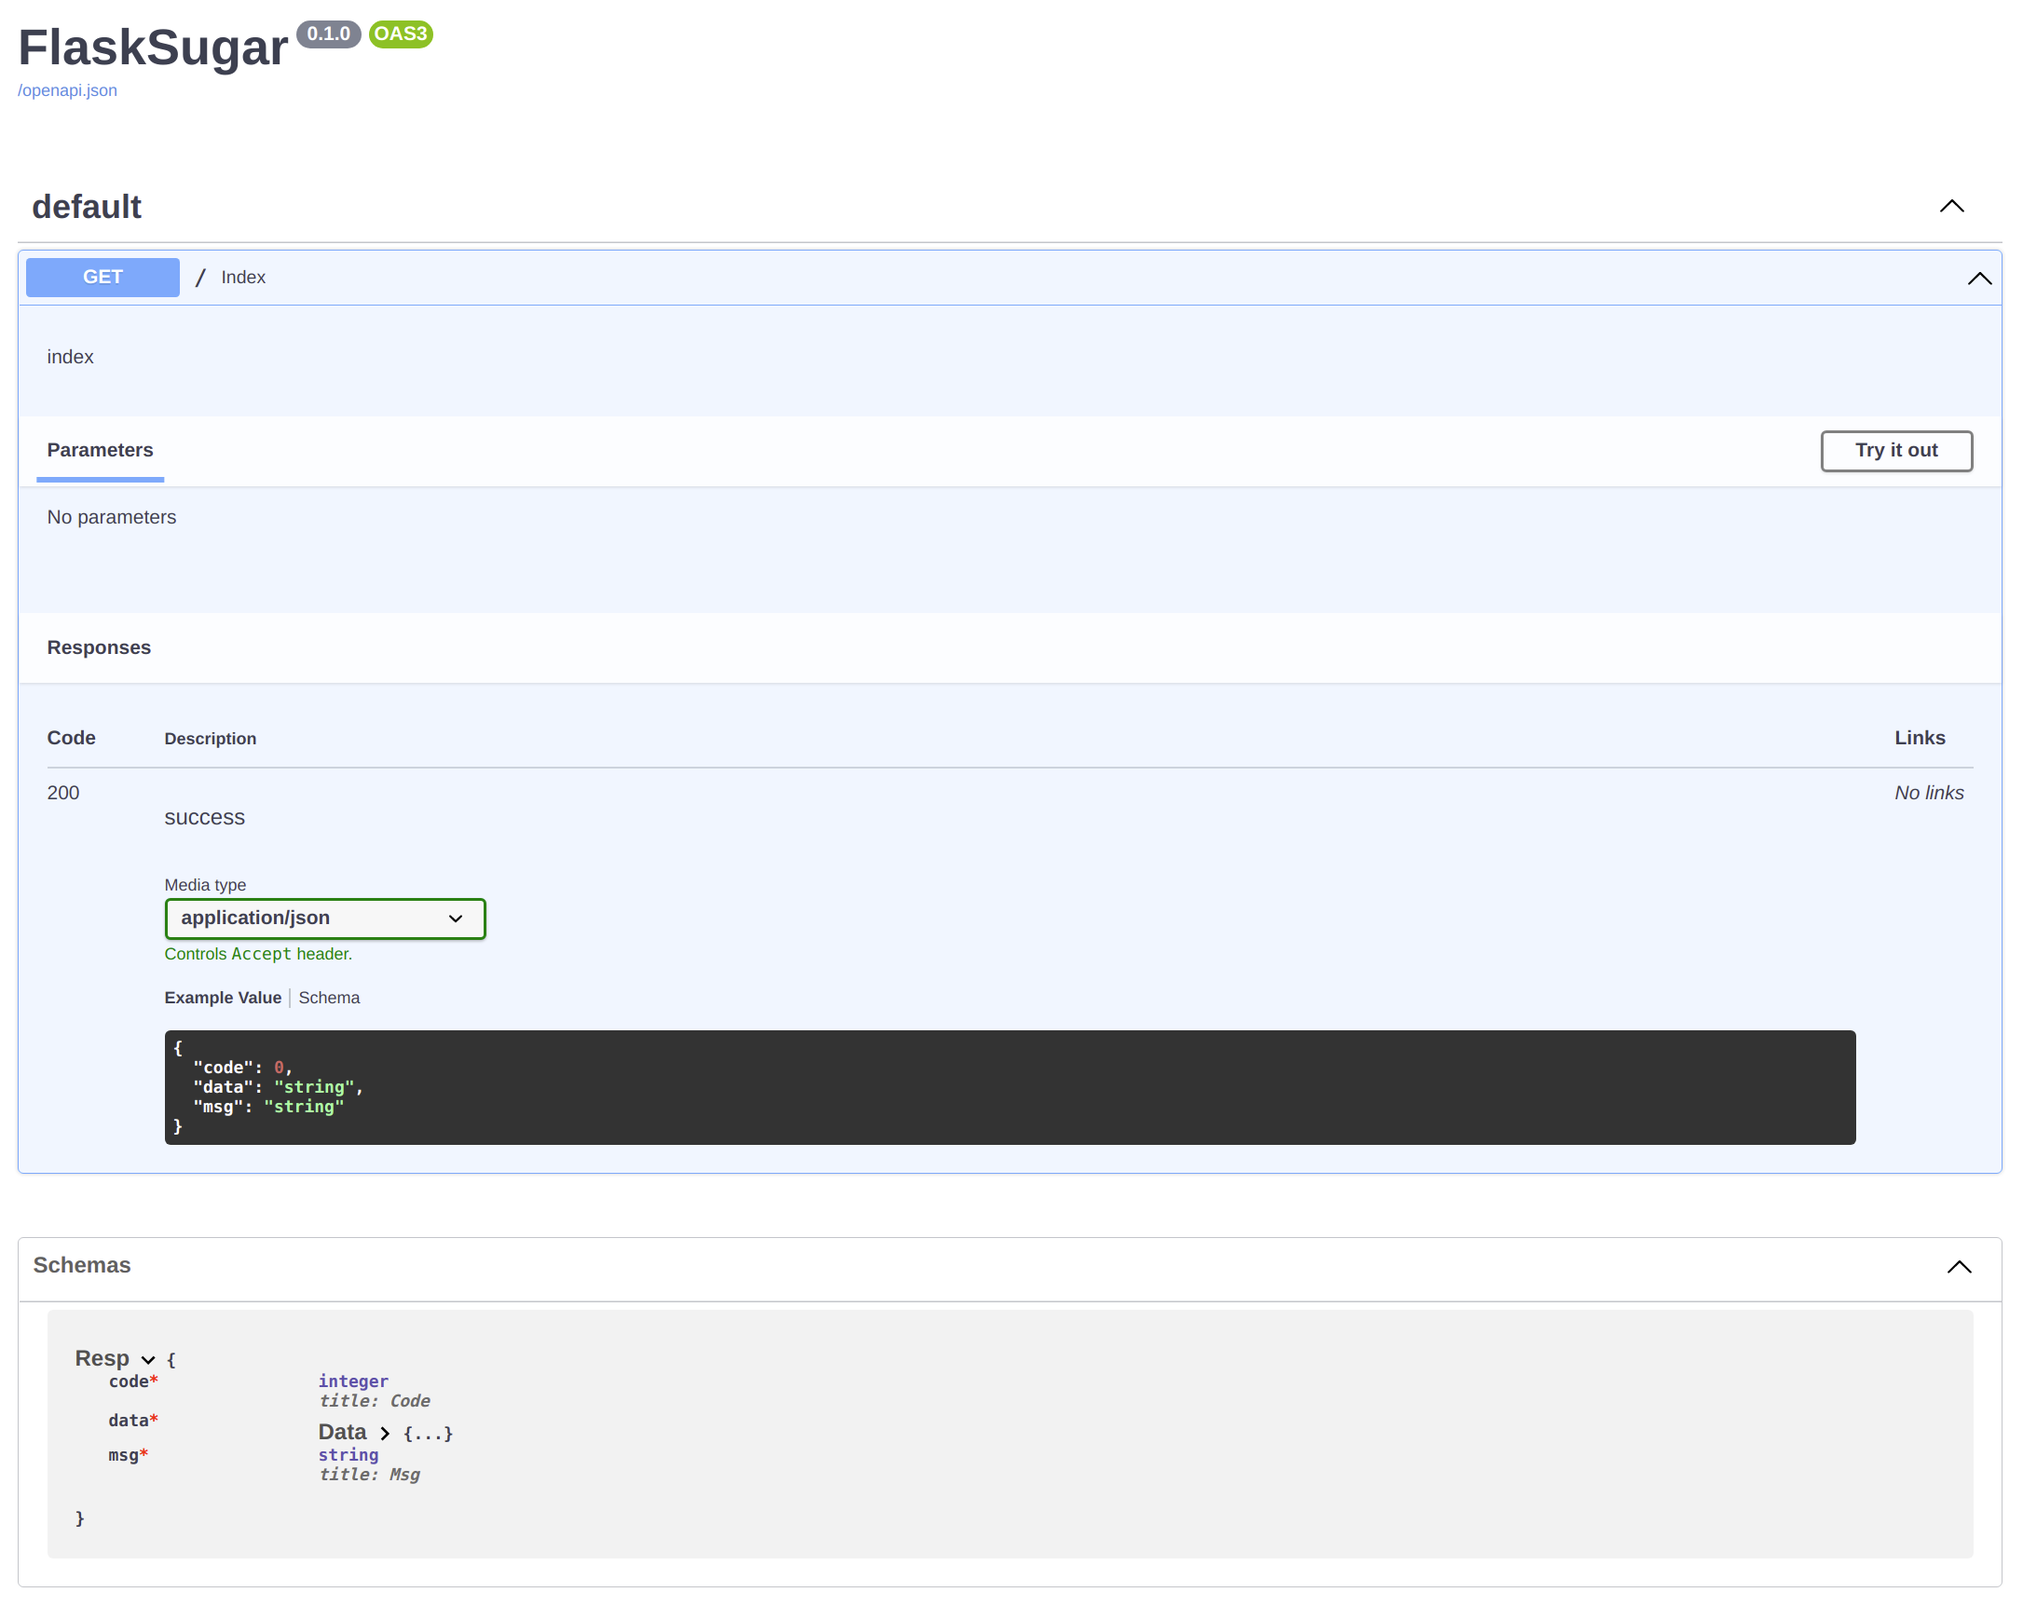
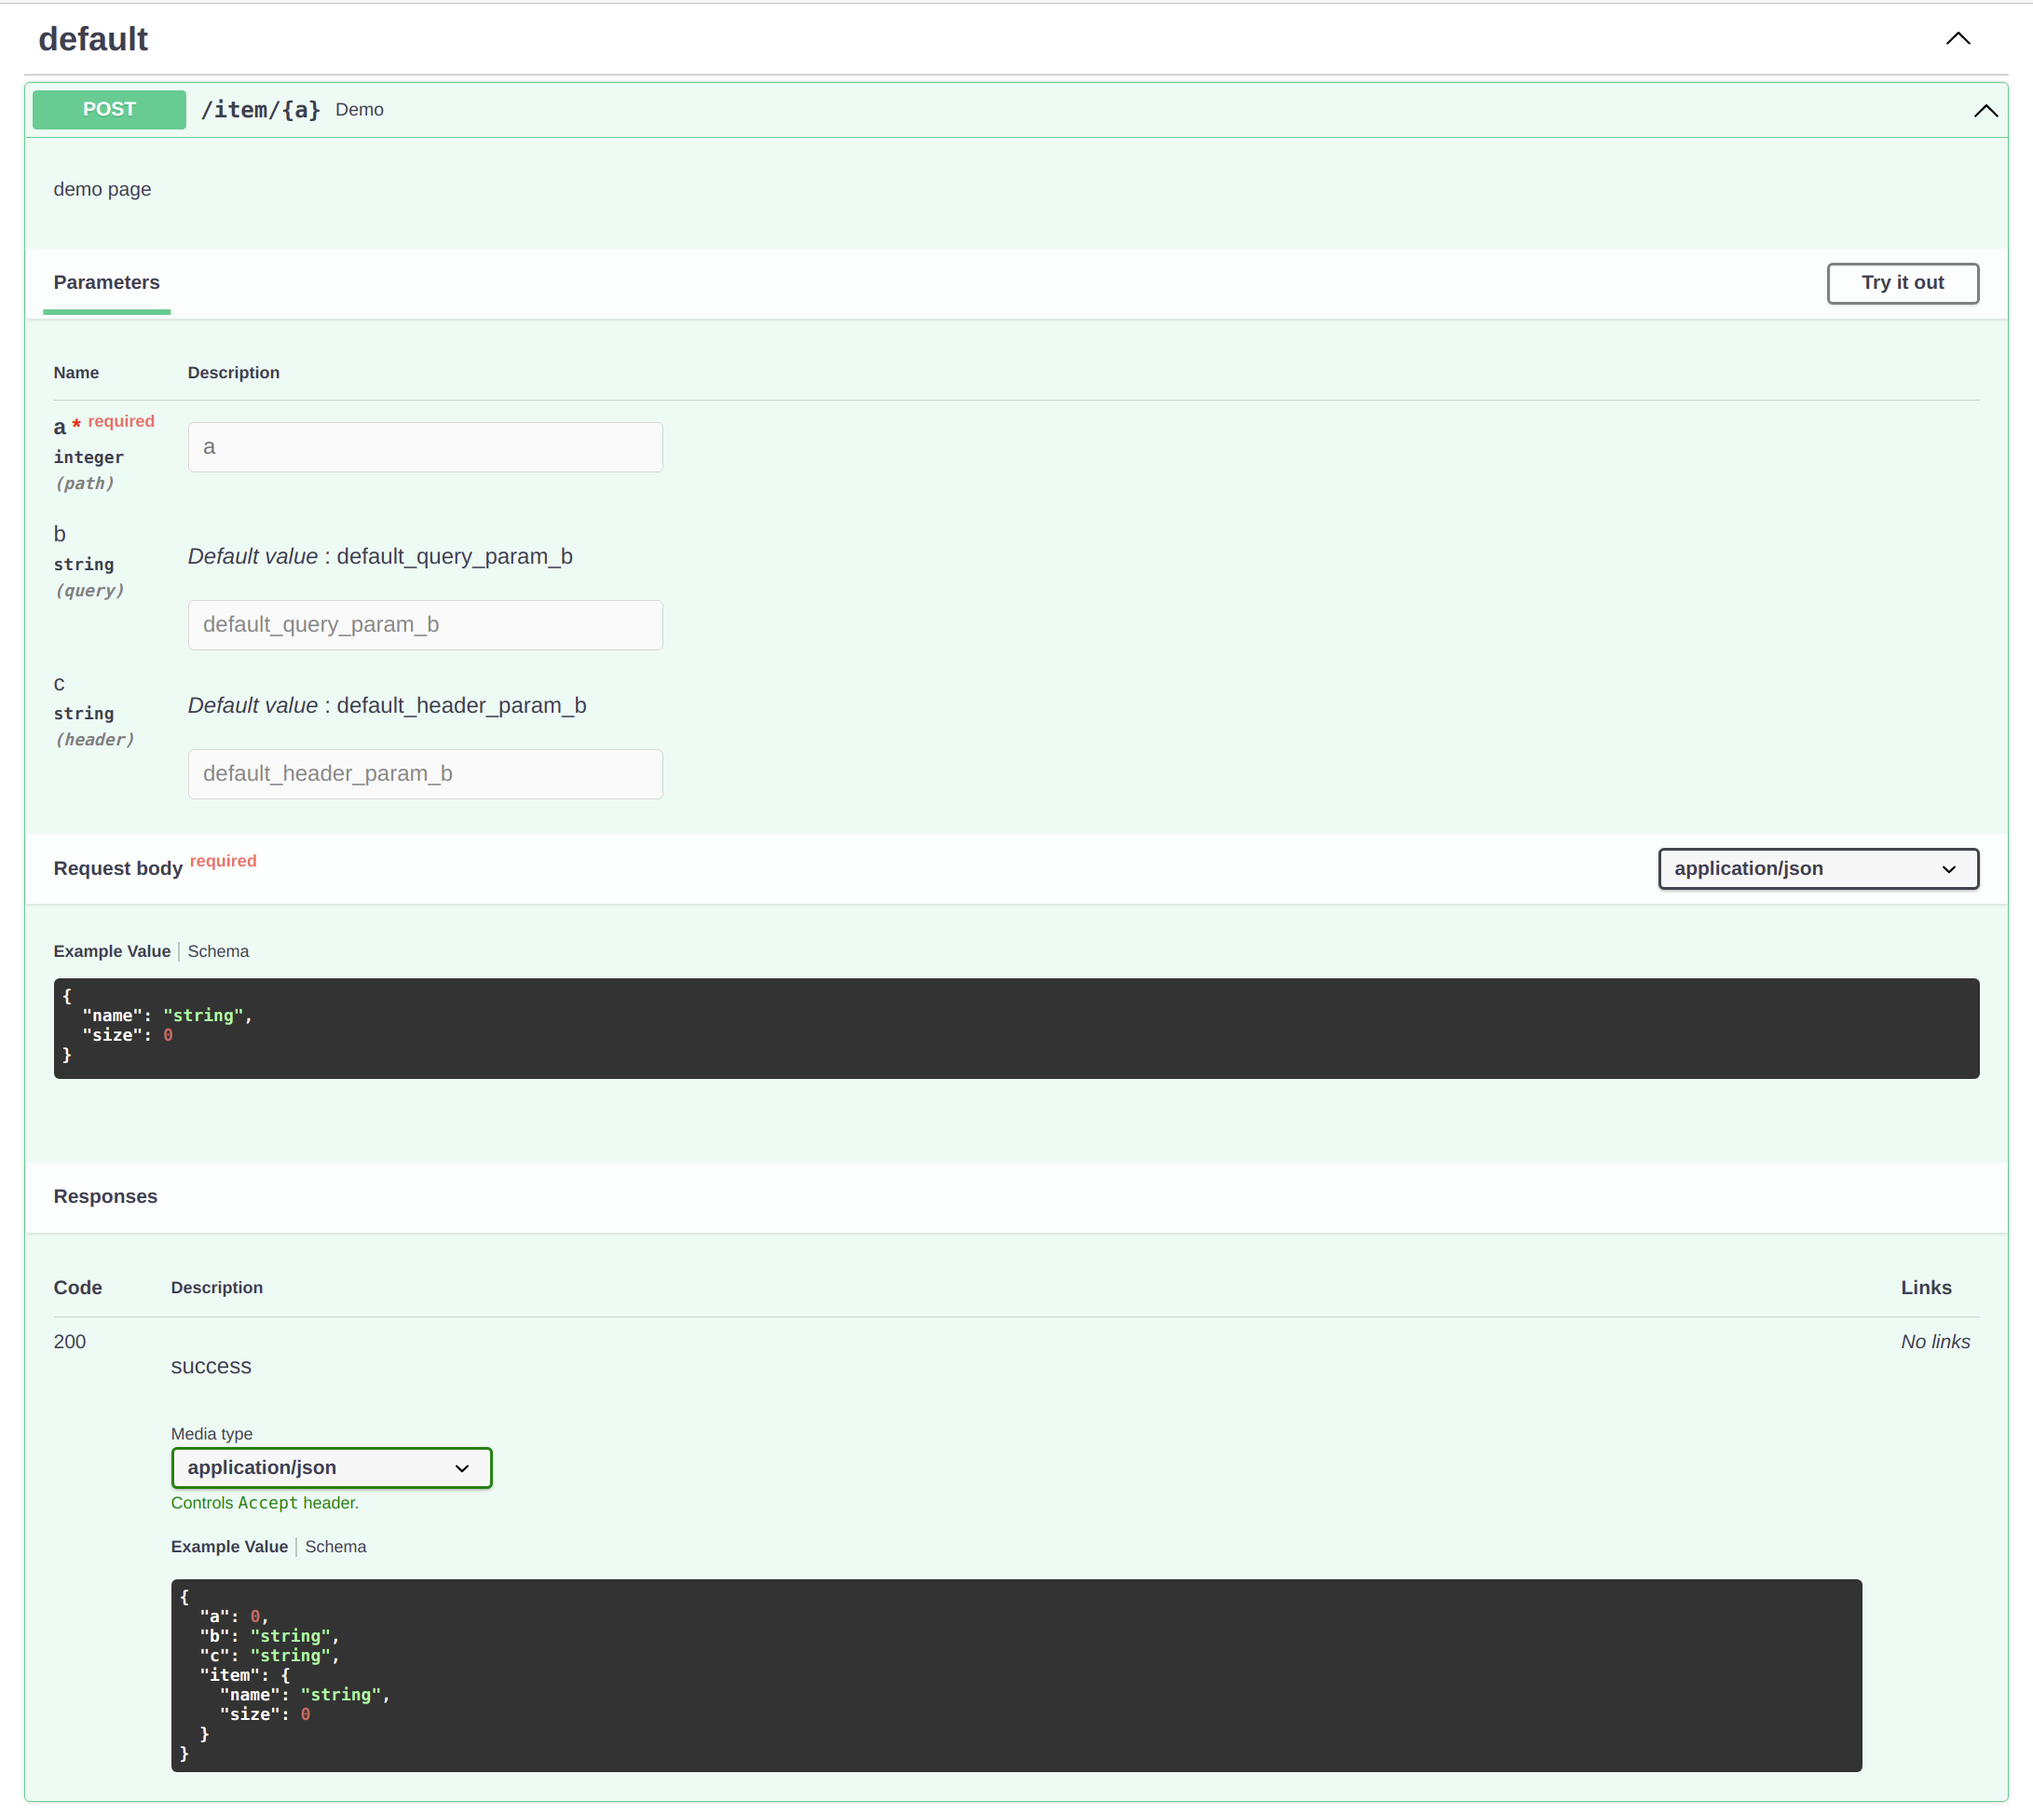
更新文档

diff --git a/README.md b/README.md
@@ -22,32 +22,40 @@ Source Code: <https://github.com/shangsky/flask-sugar>
 $ pip install flask-sugar
 ```
 
-## A Simple Example
+## Example
 
 ```python
-# save this as main.py
-from typing import Any
-
-from flask_sugar import Sugar
-from typing_extensions import TypedDict
+# save this as app.py
+from flask_sugar import Sugar, Header
+from pydantic import BaseModel
 
 app = Sugar(__name__)
 
 
-class Resp(TypedDict):
-    code: int
-    msg: str
-    data: Any
+class Item(BaseModel):
+    name: str
+    age: int
 
 
-@app.get("/")
-def index() -> Resp:
-    """index page"""
-    return {"code": 0, "msg": "success", "data": {}}
+class Resp(BaseModel):
+    a: int
+    b: str
+    c: str
+    item: Item
+
+
+@app.post("/item/{a}")
+def demo(
+    a: int,  # path param
+    item: Item,  # json body param
+    b: str = "default_query_param_b",  # query param
+    c: str = Header("default_header_param_b"),  # request header param
+) -> Resp:
+    """demo page"""
+    return Resp(a=a, b=b, c=c, item=Item(name="fasf", size=123))
 ```
 
 ```shell
-$ export FLASK_APP=main:app
 $ flask run --reload
   * Running on http://127.0.0.1:5000/ (Press CTRL+C to quit)
 ```

diff --git a/docs/index.md b/docs/index.md
@@ -19,32 +19,40 @@ Source Code: <https://github.com/shangsky/flask-sugar>
 $ pip install flask-sugar
 ```
 
-## A Simple Example
+## Example
 
 ```python
-# save this as main.py
-from typing import Any
-
-from flask_sugar import Sugar
-from typing_extensions import TypedDict
+# save this as app.py
+from flask_sugar import Sugar, Header
+from pydantic import BaseModel
 
 app = Sugar(__name__)
 
 
-class Resp(TypedDict):
-    code: int
-    msg: str
-    data: Any
+class Item(BaseModel):
+    name: str
+    age: int
 
 
-@app.get("/")
-def index() -> Resp:
-    """index page"""
-    return {"code": 0, "msg": "success", "data": {}}
+class Resp(BaseModel):
+    a: int
+    b: str
+    c: str
+    item: Item
+
+
+@app.post("/item/{a}")
+def demo(
+    a: int,  # path param
+    item: Item,  # json body param
+    b: str = "default_query_param_b",  # query param
+    c: str = Header("default_header_param_b"),  # request header param
+) -> Resp:
+    """demo page"""
+    return Resp(a=a, b=b, c=c, item=Item(name="fasf", size=123))
 ```
 
 ```shell
-$ export FLASK_APP=main:app
 $ flask run --reload
   * Running on http://127.0.0.1:5000/ (Press CTRL+C to quit)
 ```

diff --git a/README_zh.md b/README_zh.md
@@ -22,32 +22,40 @@ Flask Sugar是一个基于flask, pyddantic和类型注解的API框架.
 $ pip install flask-sugar
 ```
 
-## 简单的例子
+## 例子
 
 ```python
-# 保存为main.py
-from typing import Any
-
-from flask_sugar import Sugar
-from typing_extensions import TypedDict
+# 保存为app.py
+from flask_sugar import Sugar, Header
+from pydantic import BaseModel
 
 app = Sugar(__name__)
 
 
-class Resp(TypedDict):
-    code: int
-    msg: str
-    data: Any
+class Item(BaseModel):
+    name: str
+    size: int
 
 
-@app.get("/")
-def index() -> Resp:
-    """index page"""
-    return {"code": 0, "msg": "success", "data": {}}
+class Resp(BaseModel):
+    a: int
+    b: str
+    c: str
+    item: Item
+
+
+@app.post("/item/<a>")
+def demo(
+    a: int,  # 路径参数
+    item: Item,  # 请求体json参数
+    b: str = "default_query_param_b",  # 查询参数
+    c: str = Header("default_header_param_b"),  # 请求头参数
+) -> Resp:
+    """demo page"""
+    return Resp(a=a, b=b, c=c, item=item)
 ```
 
 ```shell
-$ export FLASK_APP=main:app
 $ flask run --reload
   * Running on http://127.0.0.1:5000/ (Press CTRL+C to quit)
 ```

diff --git a/docs/zh/index.md b/docs/zh/index.md
@@ -20,32 +20,40 @@ Flask Sugar是一个基于flask, pyddantic和类型注解的API框架.
 $ pip install flask-sugar
 ```
 
-## 简单的例子
+## 例子
 
 ```python
-# 保存为main.py
-from typing import Any
-
-from flask_sugar import Sugar
-from typing_extensions import TypedDict
+# 保存为app.py
+from flask_sugar import Sugar, Header
+from pydantic import BaseModel
 
 app = Sugar(__name__)
 
 
-class Resp(TypedDict):
-    code: int
-    msg: str
-    data: Any
+class Item(BaseModel):
+    name: str
+    size: int
 
 
-@app.get("/")
-def index() -> Resp:
-    """index page"""
-    return {"code": 0, "msg": "success", "data": {}}
+class Resp(BaseModel):
+    a: int
+    b: str
+    c: str
+    item: Item
+
+
+@app.post("/item/<a>")
+def demo(
+    a: int,  # 路径参数
+    item: Item,  # 请求体json参数
+    b: str = "default_query_param_b",  # 查询参数
+    c: str = Header("default_header_param_b"),  # 请求头参数
+) -> Resp:
+    """demo page"""
+    return Resp(a=a, b=b, c=c, item=item)
 ```
 
 ```shell
-$ export FLASK_APP=main:app
 $ flask run --reload
   * Running on http://127.0.0.1:5000/ (Press CTRL+C to quit)
 ```
